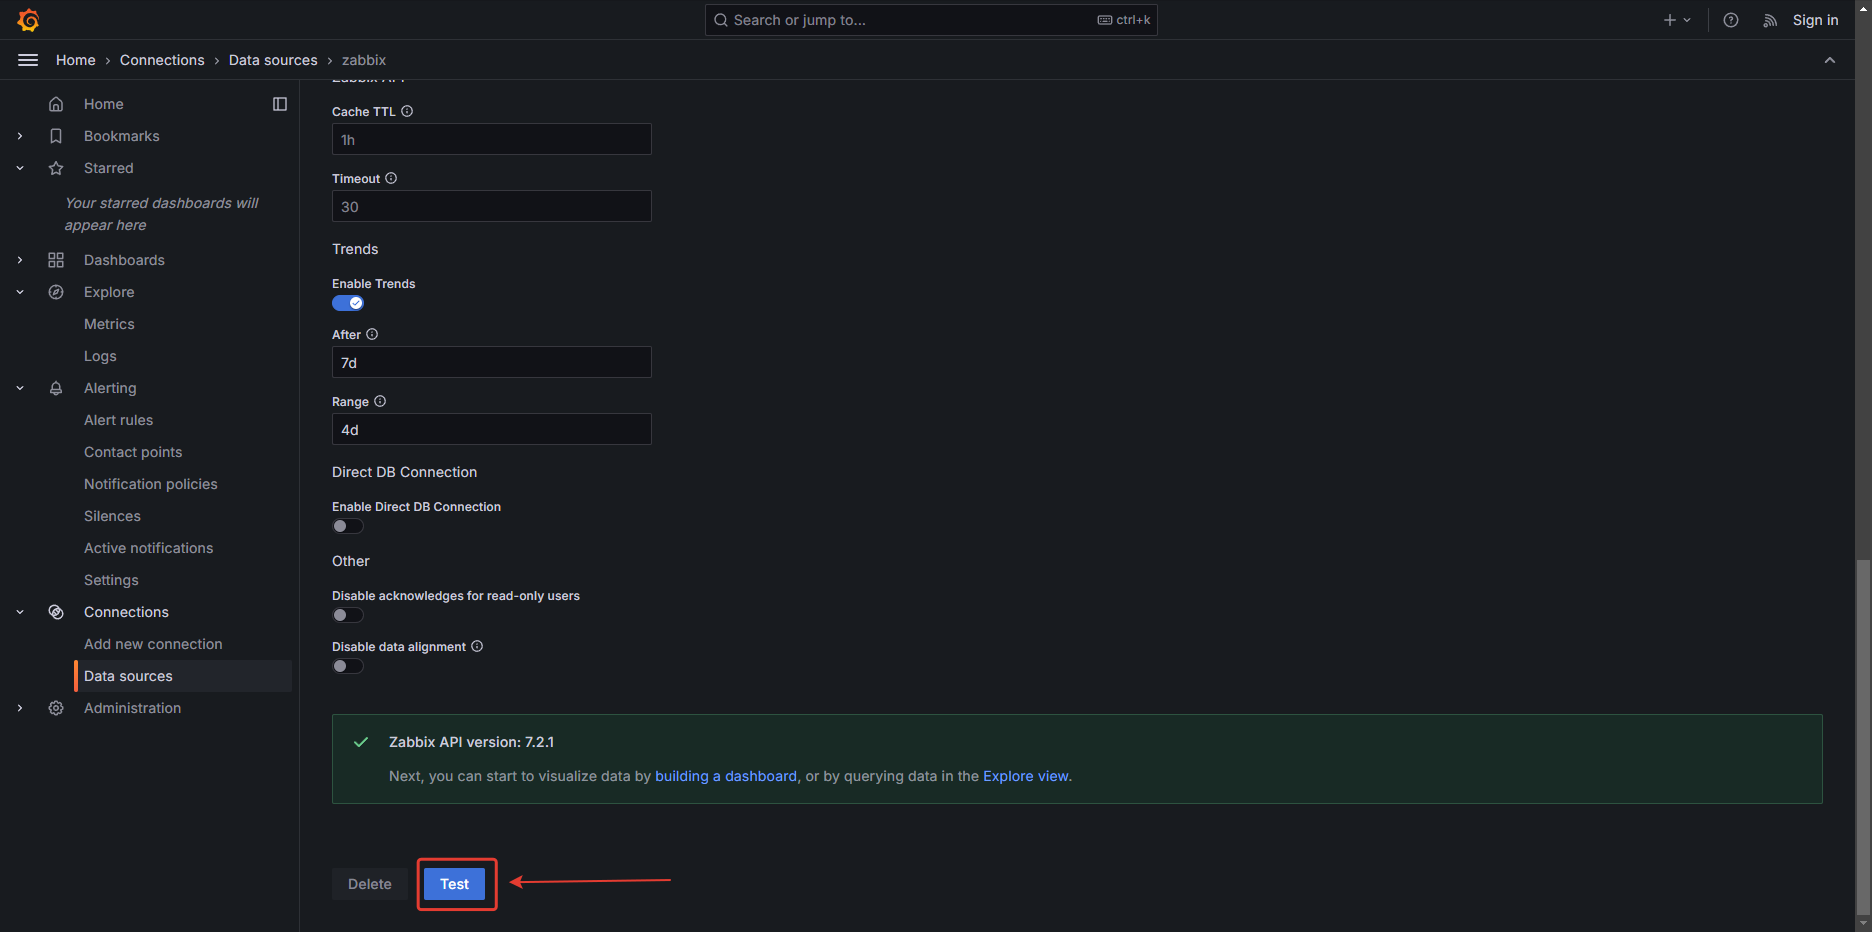
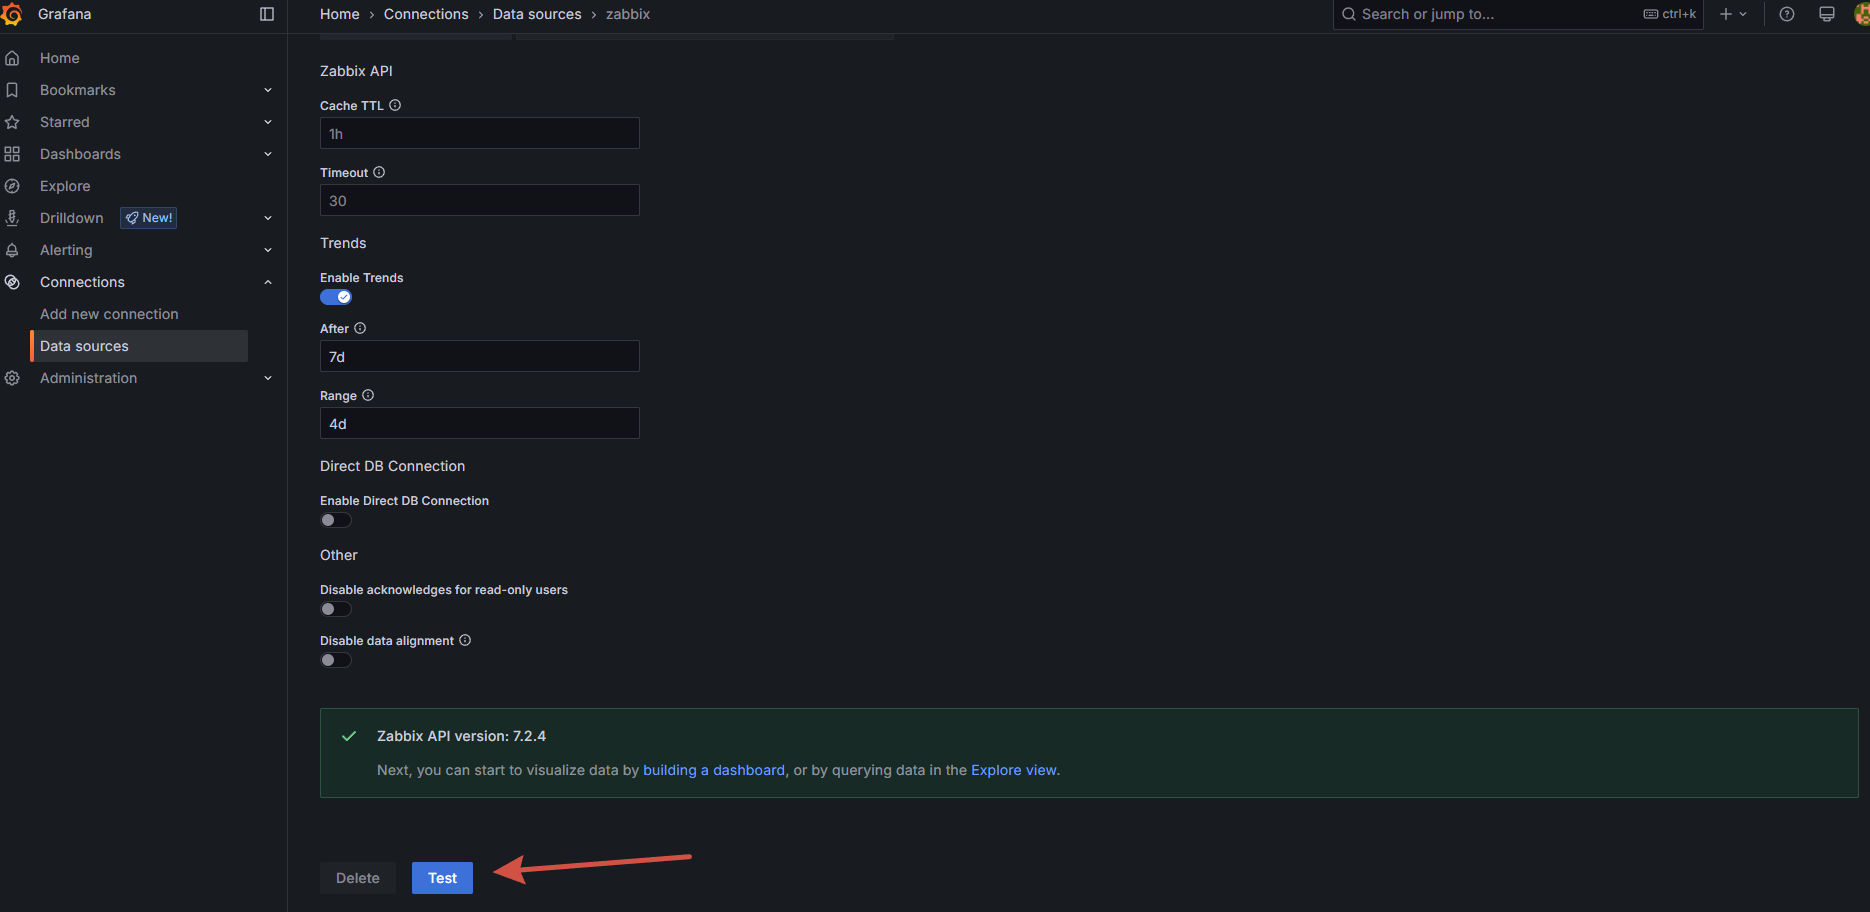
update images, zabbix latest version 7.2.4

diff --git a/README.md b/README.md
@@ -1,7 +1,9 @@
-# docker compose - Zabbix NGINX PostgreSQL + Grafana
+# Zabbix NGINX PostgreSQL + Grafana
+## Simple Container (docker compose )
 
 - [Official Zabbix Dockerfiles](https://github.com/zabbix/zabbix-docker)
 - [Zabbix plugin for Grafana dashboard](https://github.com/grafana/grafana-zabbix)
+
 
 ![scheme](./.images/scheme.excalidraw.png)
 
@@ -9,11 +11,10 @@ For those who are used to using zabbix to collect metrics, but want to start dra
 
 Example simple docker-compose service
 
-- **Postgresql:**                16-alpine
-- **Zabbix Server:**             7.2.1
-- **Zabbix Frontend NGINX:**     7.2.1
-- **Zabbix Agent:**              7.2.1
-- **Grafana:**                   11.4.0
+Current versions:
+- **Zabbix Server:**             7.2.4
+- **PostgreSQL:**                16-alpine
+- **Grafana:**                   11.6.0
 
 ## Guide
 
@@ -38,8 +39,9 @@ default user password
 - **password:** zabbix
 
 
-**Zabbix server** - Host / change use connect from DNS `zabbix-agent`
+**Zabbix server** - Data Collection / Host / change use connect from DNS `zabbix-agent`
 ![zabbix-agent](./.images/zabbix-agent-settings.png)
+![zabbix-agent](./.images/zabbix-agent-check.png)
 
 ### Grafana `localhost:3000` 
 
@@ -54,5 +56,5 @@ Test data source
 
 ### Debug
 ```
-docker-compose logs --tail=1 -f
+docker-compose logs --tail=10 -f
 ```
